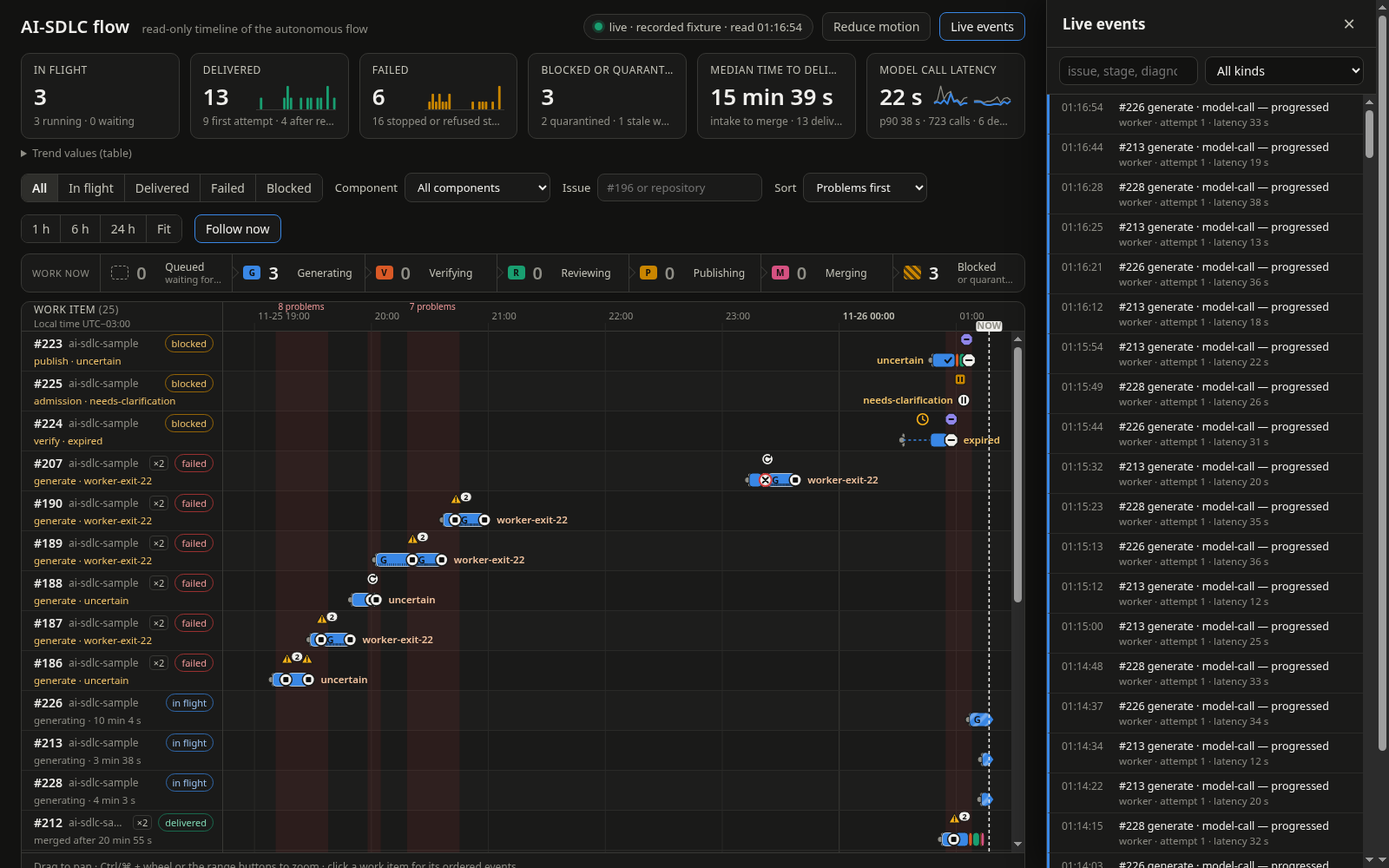
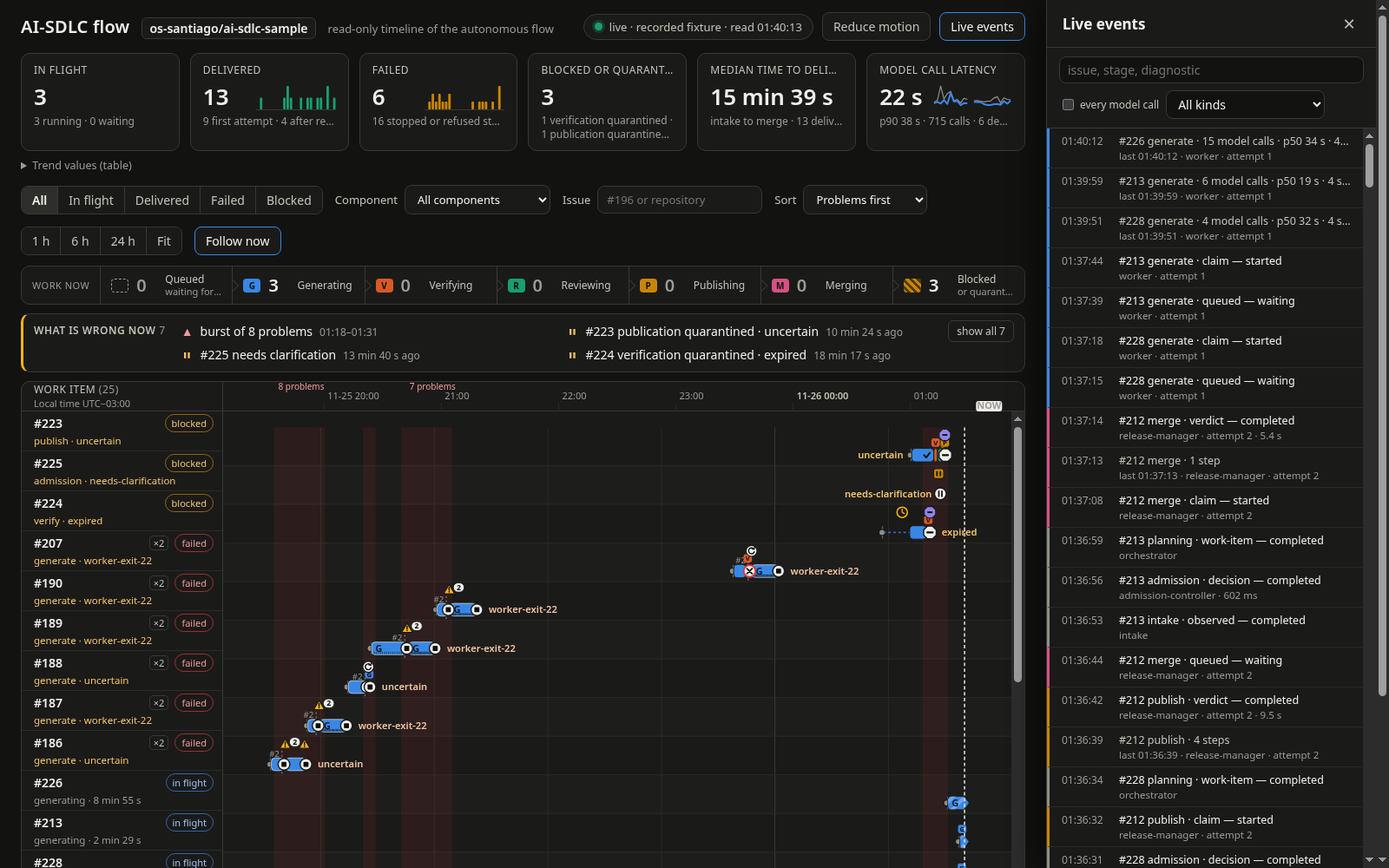
Flow console UI round 6: grouped feed, problems box, short runs
- The live feed folds a stage's model calls and effect steps per work item
  and attempt into one updating row; transitions, waits, retries, stops,
  failures, quarantine and degradation keep their own rows, problems
  highlighted. A toggle shows every model call.
- Runs too short to see keep their true width and get a stage-initial chip
  above them; a dashed #2/#3 rule marks where a later attempt begins.
- A "What is wrong now" box lists blocked or quarantined items with reason
  and age, lanes in a stage longer than its visible-window p90, and
  degradation bursts, newest first and clickable.
- The blocked tile names what blocks (for example "1 publication
  quarantined · 1 needs clarification").
- Readability: the muted text colour now clears WCAG AA on every surface;
  a single repository is named once next to the title instead of being
  truncated on every lane.

diff --git a/runtime/k8s/internal/flowconsole/ui/app.js b/runtime/k8s/internal/flowconsole/ui/app.js
@@ -263,7 +263,10 @@
     $('t-blocked').textContent = count('blocked');
     const stale = all.reduce((n, l) => n + l.markers.filter((m) => m.type === 'stale').length, 0);
     const quarantined = all.reduce((n, l) => n + l.markers.filter((m) => m.type === 'quarantined').length, 0);
-    $('t-blocked-note').textContent = quarantined + ' quarantined · ' + stale + ' stale waits';
+    const reasons = blockedReasons(all);
+    const note = reasons.length ? reasons.join(' · ') : quarantined + ' quarantined · ' + stale + ' stale waits';
+    $('t-blocked-note').textContent = note;
+    $('t-blocked-note').title = note;
     const ttd = delivered.map((l) => l.delivery).filter((v) => v !== null);
     $('t-ttd').textContent = ttd.length ? fmtDuration(median(ttd)) : '–';
     $('t-ttd-note').textContent = ttd.length ? 'intake to merge · ' + ttd.length + ' delivered' : 'no delivery yet';
@@ -272,6 +275,72 @@
     for (const l of all) for (const s of l.segments) { for (const c of s.calls) if (c.latencyMs) lat.push(c.latencyMs); degraded += s.degraded.length; }
     $('t-latency').textContent = lat.length ? fmtDuration(median(lat)) : '–';
     $('t-latency-note').textContent = lat.length ? 'p90 ' + fmtDuration(quantile(lat, 0.9)) + ' · ' + lat.length + ' calls · ' + degraded + ' degraded' : 'no model calls';
+  }
+
+  const STAGE_NOUN = { intake: 'intake', admission: 'admission', planning: 'planning', execution: 'generation', verification: 'verification', review: 'review', publication: 'publication', merge: 'merge' };
+  // What blocks: "1 publication quarantined · 1 needs clarification · 1 lease lapsed".
+  function blockReason(lane) {
+    const s = lane.final;
+    if (!s) return 'blocked';
+    if (s.outcome === 'quarantined') return STAGE_NOUN[s.stage] + ' quarantined';
+    return (s.diagnostic || 'blocked').replace(/-/g, ' ');
+  }
+  function blockedReasons(all) {
+    const counts = new Map();
+    for (const l of all) if (l.status === 'blocked') { const r = blockReason(l); counts.set(r, (counts.get(r) || 0) + 1); }
+    return Array.from(counts).sort((a, b) => b[1] - a[1]).map(([r, n]) => n + ' ' + r);
+  }
+
+  // ---------- what is wrong now ----------
+  // Blocked or quarantined lanes, lanes in a stage longer than that stage's
+  // p90 over the visible window, and degradation bursts; newest first.
+  function problems(all, now) {
+    const out = [];
+    for (const l of all) if (l.status === 'blocked' && l.final) {
+      const at = (l.final.quarantined || l.final.blocked || l.final.terminal || { t: l.final.drawEnd }).t;
+      out.push({ at, key: l.key, kind: 'blocked', text: (l.issue ? '#' + l.issue + ' ' : '') + blockReason(l) + (l.final.diagnostic && l.final.outcome === 'quarantined' ? ' · ' + l.final.diagnostic : ''), note: fmtDuration(now - at) + ' ago' });
+    }
+    // Typical durations: completed stage runs and waits inside the visible window.
+    const runs = {}, waits = {};
+    for (const l of all) for (const s of l.segments) {
+      if (INSTANT[s.stage] || s.end === null || s.end < state.view[0] || s.start === null) continue;
+      (runs[s.stage] = runs[s.stage] || []).push(s.end - s.start);
+      if (s.start > s.queued) (waits[s.stage] = waits[s.stage] || []).push(s.start - s.queued);
+    }
+    for (const l of all) {
+      const s = l.currentSegment;
+      if (!s || l.status === 'blocked') continue;
+      const waiting = s.outcome === 'waiting', sample = (waiting ? waits : runs)[s.stage] || [];
+      if (sample.length < 3) continue;
+      const p90 = quantile(sample, 0.9), age = now - (waiting ? s.queued : s.start);
+      if (age > p90 && age > 60e3) {
+        out.push({ at: now - age + p90, key: l.key, kind: 'slow', text: (l.issue ? '#' + l.issue + ' ' : '') + (waiting ? 'queued for ' + STAGE_NAME[s.stage] : (STAGE_VERB[s.stage] || STAGE_NAME[s.stage])) + ' ' + fmtDuration(age), note: 'p90 ' + fmtDuration(p90) });
+      }
+    }
+    for (const b of bands(all)) out.push({ at: b.b, band: b, kind: 'burst', text: 'burst of ' + b.count + ' problems', note: fmtClock(b.a) + '–' + fmtClock(b.b) });
+    return out.sort((a, b) => b.at - a.at);
+  }
+  function renderProblems(all, now) {
+    const box = $('problems'), list = $('problem-list');
+    const items = problems(all, now);
+    box.hidden = items.length === 0;
+    $('problem-count').textContent = String(items.length);
+    list.textContent = '';
+    const limit = state.problemsExpanded ? items.length : 4;
+    for (const p of items.slice(0, limit)) {
+      const li = html('li', 'problem-' + p.kind, null, list);
+      const b = html('button', null, null, li);
+      b.type = 'button';
+      if (p.key) b.dataset.key = p.key;
+      if (p.band) { b.dataset.a = String(p.band.a); b.dataset.b = String(p.band.b); }
+      html('span', 'problem-icon', { blocked: '⏸', slow: '⏱', burst: '▲' }[p.kind], b).setAttribute('aria-hidden', 'true');
+      html('span', 'problem-text', p.text, b);
+      html('span', 'problem-note', p.note, b);
+      b.title = p.text + ' · ' + p.note;
+    }
+    const more = $('problem-more');
+    more.hidden = items.length <= 4;
+    more.textContent = state.problemsExpanded ? 'show fewer' : 'show all ' + items.length;
   }
 
   // ---------- trends over the visible window ----------
@@ -435,9 +504,10 @@
     $('feed-new').hidden = true;
     const q = $('feed-filter').value.trim().toLowerCase(), kind = $('feed-kind').value;
     const list = $('feed-list');
-    const items = Array.from(state.events.values()).filter((e) => feedMatches(e, q, kind)).sort((a, b) => b.t - a.t).slice(0, 300);
+    const sorted = Array.from(state.events.values()).filter((e) => feedMatches(e, q, kind)).sort((a, b) => b.t - a.t);
     list.textContent = '';
-    for (const e of items) {
+    if (!$('feed-every').checked) return renderFeedGrouped(list, sorted);
+    for (const e of sorted.slice(0, 300)) {
       const li = html('li', PROBLEM_KINDS[e.kind] || e.diagnostic ? 'problem' : '', null, list);
       li.tabIndex = 0;
       li.dataset.key = laneKey(e);
@@ -447,6 +517,43 @@
       time.title = fmtUTC(e.t);
       html('span', 'what', (e.issue ? '#' + e.issue + ' ' : '') + STAGE_NAME[e.stage] + (e.step ? ' · ' + e.step : '') + ' — ' + e.kind + (e.diagnostic ? ' (' + e.diagnostic + ')' : ''), li);
       html('span', 'detail', [e.component, e.attempt ? 'attempt ' + e.attempt : '', e.durationMs ? fmtDuration(e.durationMs) : '', e.latencyMs ? 'latency ' + fmtDuration(e.latencyMs) : ''].filter(Boolean).join(' · '), li);
+    }
+    if (state.follow) list.scrollTop = 0;
+  }
+  // Default feed: model calls and effect steps of one stage of one attempt
+  // fold into one row at their newest time; transitions and problems keep
+  // their own rows, problems with more weight.
+  function renderFeedGrouped(list, sorted) {
+    const rows = [], groups = new Map();
+    for (const e of sorted) {
+      if (e.kind === 'progressed') {
+        const key = laneKey(e) + '|' + (e.attempt || 0) + '|' + e.stage;
+        let g = groups.get(key);
+        if (!g) { g = { group: true, e, calls: [], steps: 0 }; groups.set(key, g); rows.push(g); }
+        if (e.step === 'model-call') g.calls.push(e); else g.steps++;
+      } else rows.push({ e });
+      if (rows.length >= 300) break;
+    }
+    for (const r of rows) {
+      const e = r.e, problem = PROBLEM_KINDS[e.kind] || e.diagnostic === 'stale-wait';
+      const li = html('li', r.group ? 'progress' : problem ? 'problem' : 'transition', null, list);
+      li.tabIndex = 0;
+      li.dataset.key = laneKey(e);
+      li.dataset.id = e.id;
+      li.style.borderLeftColor = problem ? (e.kind === 'failed' ? 'var(--failed)' : 'var(--degraded)') : STAGE_COLOR[e.stage];
+      html('span', 'time', fmtClock(e.t, true), li).title = fmtUTC(e.t);
+      const who = (e.issue ? '#' + e.issue + ' ' : '') + STAGE_NAME[e.stage];
+      if (r.group) {
+        const lat = r.calls.map((c) => c.latencyMs).filter(Boolean);
+        const parts = [who];
+        if (r.calls.length) parts.push(r.calls.length + ' model call' + (r.calls.length > 1 ? 's' : '') + (lat.length ? ' · p50 ' + fmtDuration(median(lat)) : ''));
+        if (r.steps) parts.push(r.steps + ' step' + (r.steps > 1 ? 's' : ''));
+        html('span', 'what', parts.join(' · '), li);
+        html('span', 'detail', ['last ' + fmtClock(e.t, true), e.component, e.attempt ? 'attempt ' + e.attempt : ''].filter(Boolean).join(' · '), li);
+      } else {
+        html('span', 'what', who + (e.step ? ' · ' + e.step : '') + ' — ' + e.kind + (e.diagnostic ? ' (' + e.diagnostic + ')' : ''), li);
+        html('span', 'detail', [e.component, e.attempt ? 'attempt ' + e.attempt : '', e.durationMs ? fmtDuration(e.durationMs) : ''].filter(Boolean).join(' · '), li);
+      }
     }
     if (state.follow) list.scrollTop = 0;
   }
@@ -582,6 +689,7 @@
     return out;
   }
 
+  let chipEnd = -Infinity;
   function drawSegment(parent, lane, s, y0, w, dim, overlay) {
     const LANE_H = laneHeight(), cy = y0 + LANE_H - 13;
     const xq = x(s.queued), xs = s.start !== null ? x(s.start) : x(s.drawEnd), xe = x(s.drawEnd);
@@ -594,7 +702,11 @@
       svg('circle', { cx: xs, cy, r: 3.6, fill: color, stroke: 'var(--surface-1)', 'stroke-width': 1.2 }, g);
       return { g, x0: xs - 4, x1: xs + 4 };
     }
-    let width = Math.max(xe - xs, 4), x0 = xs;
+    // Very short runs keep their true width (at least 2 px) and get a chip
+    // with the stage initial above them, so the axis is not stretched.
+    const short = s.outcome !== 'waiting' && xe - xs < 7;
+    const chip = short && STAGES.indexOf(s.stage) >= 3;
+    let width = short ? Math.max(xe - xs, 2) : Math.max(xe - xs, 4), x0 = xs;
     if (s.outcome === 'waiting') {
       // Waiting: an outline only, from the queue time.
       x0 = xq; width = Math.max(xe - xq, 6);
@@ -612,6 +724,14 @@
         const px = x(c.t);
         if (px > x0 + 2 && px < x0 + width - 2) svg('line', { x1: px, x2: px, y1: cy + BAR_H / 2 - 4, y2: cy + BAR_H / 2 - 1, stroke: 'rgba(14,14,13,.6)', 'stroke-width': 1 }, g);
       }
+    }
+    if (chip) {
+      // Neighbouring chips line up to the right; a hairline ties each to its run.
+      const tx = x0 + width / 2, cx = Math.max(tx, chipEnd + 11);
+      svg('rect', { x: cx - 5, y: cy - BAR_H / 2 - 12, width: 10, height: 10, rx: 2.5, fill: color }, g);
+      text(g, { class: 'chip-label', x: cx, y: cy - BAR_H / 2 - 4, 'text-anchor': 'middle' }, STAGE_INITIAL[s.stage]);
+      if (cx !== tx) svg('line', { x1: cx - 5, x2: tx, y1: cy - BAR_H / 2 - 2, y2: cy - BAR_H / 2, stroke: color, 'stroke-width': 1 }, g);
+      chipEnd = cx;
     }
     const badged = s.outcome === 'failed' || s.outcome === 'stopped-safely' || s.outcome === 'blocked' || s.outcome === 'quarantined';
     const room = width - (badged ? 10 : s.outcome === 'completed' ? 14 : 4) - 6;
@@ -655,6 +775,9 @@
     renderTiles(all);
     renderFunnel(all);
     const matching = visibleLanes();
+    // One repository for every lane: name it once in the header instead.
+    const repos = new Set(all.map((l) => l.repository));
+    state.singleRepo = repos.size === 1 ? Array.from(repos)[0] : '';
     const extent = dataExtent(matching.length ? matching : all, now);
     // The initial window is chosen once the first events exist.
     if (!state.view || (!state.viewChosen && all.length)) {
@@ -698,6 +821,9 @@
       if (xb - xa > 60) text(axis, { class: 'band-label', x: xa + 3, y: 9 }, b.count + ' problems');
     }
     trends(all);
+    renderProblems(all, now);
+    $('header-repo').textContent = state.singleRepo;
+    $('header-repo').hidden = !state.singleRepo;
 
     // Labels column: issue, repository, status, and a summary line.
     labels.textContent = '';
@@ -717,7 +843,8 @@
       row.dataset.index = String(index);
       const top = html('div', 'label-top', null, row);
       html('span', 'issue', lane.issue ? '#' + lane.issue : lane.workItem.slice(0, 8), top);
-      const repo = html('span', 'repo', (lane.repository || '').split('/').pop(), top);
+      // The repository is shown per lane only when lanes span several.
+      const repo = html('span', 'repo', state.singleRepo ? '' : (lane.repository || '').split('/').pop(), top);
       repo.title = lane.repository;
       if (lane.attempts > 1) html('span', 'attempts', '×' + lane.attempts, top).title = lane.attempts + ' attempts';
       const chipText = { inflight: 'in flight', delivered: 'delivered', failed: 'failed', blocked: 'blocked' }[lane.status];
@@ -734,6 +861,16 @@
       const i = first + k, y0 = i * LANE_H;
       const dim = state.filter.component;
       let lastEnd = -Infinity, finalBox = null;
+      chipEnd = -Infinity;
+      // Attempt dividers: a dashed rule where attempt 2, 3, ... begins.
+      for (let a = 2; a <= lane.attempts; a++) {
+        const starts = lane.segments.filter((s) => s.attempt === a).map((s) => s.queued);
+        if (!starts.length) continue;
+        const px = x(Math.min.apply(null, starts)) - 4;
+        if (px < 0 || px > w) continue;
+        svg('line', { class: 'attempt-divider', x1: px, x2: px, y1: y0 + 17, y2: y0 + LANE_H - 2 }, bars);
+        text(bars, { class: 'attempt-label', x: px - 3, y: y0 + 24, 'text-anchor': 'end' }, '#' + a);
+      }
       for (const s of lane.segments) {
         const box = drawSegment(bars, lane, s, y0, w, dim && s.events[0].component !== dim, overlay);
         if (!box) continue;
@@ -968,6 +1105,14 @@
   $('feed-close').addEventListener('click', () => setFeed(false));
   $('feed-filter').addEventListener('input', () => renderFeed(true));
   $('feed-kind').addEventListener('change', () => renderFeed(true));
+  $('feed-every').addEventListener('change', () => renderFeed(true));
+  $('problem-list').addEventListener('click', (ev) => {
+    const b = ev.target.closest('button');
+    if (!b) return;
+    if (b.dataset.key && state.lanes.has(b.dataset.key)) openPanel(b.dataset.key);
+    else if (b.dataset.a) setView(Number(b.dataset.a) - 15 * 60e3, Number(b.dataset.b) + 15 * 60e3, false);
+  });
+  $('problem-more').addEventListener('click', () => { state.problemsExpanded = !state.problemsExpanded; schedule(); });
   $('feed-new').addEventListener('click', () => renderFeed(true));
   $('feed-list').addEventListener('click', (ev) => { const li = ev.target.closest('li'); if (li && state.lanes.has(li.dataset.key)) openPanel(li.dataset.key); });
   $('feed-list').addEventListener('keydown', (ev) => {

diff --git a/runtime/k8s/internal/flowconsole/ui/app.css b/runtime/k8s/internal/flowconsole/ui/app.css
@@ -11,7 +11,7 @@
   --grid: #2a2a28;
   --text-primary: #f0efec;
   --text-secondary: #c3c2b7;
-  --text-muted: #8f8e86;
+  --text-muted: #9c9b93;
   --accent: #3987e5;
   --running: #3987e5;
   --completed: #199e70;
@@ -159,11 +159,35 @@ body.panel-open { padding-right: 420px; }
 .stage-swatch { flex: none; width: 20px; height: 16px; border-radius: 4px; color: #0e0e0d; font-size: 10px; font-weight: 700; display: inline-flex; align-items: center; justify-content: center; }
 .stage-swatch.outline { background: none !important; border: 1.5px dashed var(--text-muted); color: var(--text-secondary); }
 .stage-swatch.hatch { background: repeating-linear-gradient(45deg, #c98500 0 3px, rgba(201,133,0,.3) 3px 6px) !important; }
+/* What is wrong now: a compact, clickable list of current problems. */
+.problems { margin: 0 24px 10px; display: flex; align-items: flex-start; gap: 14px; background: var(--surface-1); border: 1px solid var(--line); border-left: 3px solid var(--degraded); border-radius: 10px; padding: 7px 12px; }
+.problems h2 { margin: 3px 0 0; font-size: 12px; text-transform: uppercase; letter-spacing: .5px; color: var(--text-secondary); font-weight: 600; white-space: nowrap; }
+.problems ul { list-style: none; margin: 0; padding: 0; flex: 1; display: grid; grid-template-columns: repeat(2, minmax(0, 1fr)); gap: 2px 14px; min-width: 0; }
+.problems li button { width: 100%; display: flex; align-items: baseline; gap: 8px; background: none; border: 0; padding: 3px 4px; cursor: pointer; text-align: left; border-radius: 6px; min-width: 0; }
+.problems li button:hover { background: var(--surface-2); }
+.problems li button:focus-visible { outline: 2px solid var(--accent); outline-offset: -2px; }
+.problem-icon { flex: none; width: 14px; text-align: center; }
+.problem-blocked .problem-icon { color: #f2c46b; }
+.problem-slow .problem-icon { color: #9cc4f3; }
+.problem-burst .problem-icon { color: #f09a9a; }
+.problem-text { color: var(--text-primary); white-space: nowrap; overflow: hidden; text-overflow: ellipsis; min-width: 0; }
+.problem-note { color: var(--text-muted); font-size: 12px; white-space: nowrap; flex: none; }
+.problem-more { background: none; border: 1px solid var(--line); border-radius: 6px; padding: 3px 9px; cursor: pointer; color: var(--text-secondary); font-size: 12px; white-space: nowrap; }
+.header-repo { color: var(--text-primary); font-size: 14px; font-weight: 600; border: 1px solid var(--line); border-radius: 6px; padding: 2px 8px; background: var(--surface-1); }
+.attempt-divider { stroke: #9c9b93; stroke-width: 1; stroke-dasharray: 2 3; }
+.attempt-label { fill: var(--text-muted); font-size: 10px; }
+.chip-label { fill: #0e0e0d; font-size: 8px; font-weight: 700; pointer-events: none; }
+.feed-every { display: inline-flex; align-items: center; gap: 4px; color: var(--text-secondary); font-size: 12px; white-space: nowrap; }
+.feed-list li.progress .what { color: var(--text-secondary); }
+.feed-list li.transition .what { color: var(--text-primary); }
+.feed-list li.problem { background: rgba(250,178,25,.06); }
+.feed-list li.problem .what { color: #f6cfa8; font-weight: 600; }
 .trend-table { margin: -4px 24px 10px; color: var(--text-secondary); font-size: 12.5px; }
 .trend-table summary { cursor: pointer; color: var(--text-muted); width: max-content; }
 .trend-table table { border-collapse: collapse; margin-top: 6px; font-variant-numeric: tabular-nums; }
 .trend-table th, .trend-table td { padding: 2px 14px 2px 0; text-align: left; font-weight: 400; border-bottom: 1px solid var(--grid); }
 .trend-table thead th { color: var(--text-muted); }
+#t-blocked-note { white-space: normal; display: -webkit-box; -webkit-line-clamp: 2; -webkit-box-orient: vertical; line-height: 1.3; }
 .tile-row { display: flex; align-items: flex-end; justify-content: space-between; gap: 8px; }
 .spark { width: 92px; height: 30px; flex: none; margin-bottom: 2px; overflow: visible; }
 .spark .p90 { stroke: #8f8e86; }
@@ -173,9 +197,9 @@ body.panel-open { padding-right: 420px; }
 .feed { position: fixed; top: 0; right: 0; bottom: 0; width: 380px; background: var(--surface-1); border-left: 1px solid var(--line); box-shadow: -12px 0 30px rgba(0,0,0,.4); display: flex; flex-direction: column; z-index: 9; }
 body.feed-open { padding-right: 380px; }
 body.feed-open.panel-open { padding-right: 420px; }
-.feed-filters { display: flex; gap: 8px; padding: 10px 14px; border-bottom: 1px solid var(--line); }
+.feed-filters { display: flex; flex-wrap: wrap; gap: 8px; padding: 10px 14px; border-bottom: 1px solid var(--line); }
 .feed-filters input, .feed-filters select { background: var(--surface-0); border: 1px solid var(--line); border-radius: 8px; padding: 5px 9px; color: var(--text-primary); min-width: 0; }
-.feed-filters input { flex: 1; }
+.feed-filters input[type=search] { flex: 1 1 100%; }
 .feed-new { margin: 8px 14px 0; background: var(--surface-3); border: 1px solid var(--accent); border-radius: 8px; padding: 5px; cursor: pointer; }
 .feed-list { list-style: none; margin: 0; padding: 0 0 20px; overflow-y: auto; flex: 1; }
 .feed-list li { display: grid; grid-template-columns: 58px 1fr; gap: 1px 8px; padding: 6px 14px; border-bottom: 1px solid var(--grid); font-size: 12.5px; cursor: pointer; border-left: 3px solid transparent; }
@@ -187,7 +211,7 @@ body.feed-open.panel-open { padding-right: 420px; }
 @media (max-width: 1400px) {
   :root { --label-w: 214px; font-size: 13px; }
   .top, .tiles, .filters, .legend { padding-left: 16px; padding-right: 16px; }
-  .timeline, .funnel, .trend-table { margin-left: 16px; margin-right: 16px; }
+  .timeline, .funnel, .trend-table, .problems { margin-left: 16px; margin-right: 16px; }
   .funnel button { padding: 6px 9px; gap: 7px; }
   .funnel .count { font-size: 17px; }
   .funnel-title { display: none; }

diff --git a/runtime/k8s/internal/flowconsole/ui/index.html b/runtime/k8s/internal/flowconsole/ui/index.html
@@ -10,6 +10,7 @@
 <header class="top">
   <div class="brand">
     <h1>AI-SDLC flow</h1>
+    <span class="header-repo" id="header-repo" hidden title="Every work item shown belongs to this repository"></span>
     <span class="subtitle">read-only timeline of the autonomous flow</span>
   </div>
   <div class="top-right">
@@ -75,6 +76,12 @@
 
 <nav class="funnel" id="funnel" aria-label="Where the work is now: current stage counts, click to filter"></nav>
 
+<section class="problems" id="problems" hidden aria-labelledby="problems-title">
+  <h2 id="problems-title">What is wrong now <span class="muted" id="problem-count"></span></h2>
+  <ul id="problem-list"></ul>
+  <button type="button" class="problem-more" id="problem-more" hidden></button>
+</section>
+
 <main class="timeline" id="timeline">
   <div class="axis-row">
     <div class="lane-head"><span>Work item <span class="muted" id="lane-count"></span></span><span class="tz" id="timezone"></span></div>
@@ -110,6 +117,7 @@
   </div>
   <div class="feed-filters">
     <input id="feed-filter" type="search" placeholder="issue, stage, diagnostic" autocomplete="off" spellcheck="false" aria-label="Filter events">
+    <label class="feed-every"><input type="checkbox" id="feed-every"> every model call</label>
     <select id="feed-kind" aria-label="Event kinds">
       <option value="">All kinds</option>
       <option value="problems">Problems only</option>

diff --git a/docs/operations/flow-console.md b/docs/operations/flow-console.md
@@ -18,8 +18,9 @@ no workflow authority. It is off by default.
   attempt continues on the same lane. Only lanes with activity in the visible
   time window are listed, most recent activity first, or *problems first*
   (blocked, then failed, then in flight, then delivered).
-- **A label column with a summary line**: issue, repository (truncated, full
-  name on hover), attempt count and status, and under it where the work is
+- **A label column with a summary line**: issue, attempt count and status
+  (the repository is named once next to the title when every lane shares it,
+  and per lane, truncated with the full name on hover, when they do not), and under it where the work is
   now (`verifying · 3 min`, `queued for review · 40 s`) or why it ended. The
   final stop of a failed or blocked lane always shows its stage and
   diagnostic there (`generate · worker-exit-22`) and next to its last bar.
@@ -31,7 +32,21 @@ no workflow authority. It is off by default.
   with ✓ for completed, striped with an open end for running, a dashed outline
   for waiting (and a dashed lead-in for the queue time before a claim), a hatch
   for blocked or quarantined, and an end badge for failed (✕), stopped safely
-  (■), blocked (⏸) and quarantined (⛔).
+  (■), blocked (⏸) and quarantined (⛔). A run too short to see at the
+  current zoom (often publish and merge) keeps its true width (at least 2 px)
+  and gets a small chip with its initial above it; neighbouring chips line up
+  to the right with a hairline to their run, so the time axis is never
+  stretched. A dashed rule labelled `#2`, `#3`, ... marks where a later attempt
+  begins inside a lane.
+- **What is wrong now**: a box above the timeline, shown only when there is
+  something to show, lists current problems newest first: blocked or
+  quarantined work items with their reason, diagnostic and age; lanes in a
+  stage (or its queue) longer than that stage's p90 over the visible window
+  (`#226 generating 10 min · p90 6 min`, only once three runs of that stage
+  are visible); and degradation bursts. Click a work item to open it, or a
+  burst to zoom to it. Four items show by default; *show all* expands.
+- **The blocked tile names what blocks**, for example `1 publication
+  quarantined · 1 needs clarification · 1 lease lapsed`.
 - **Work now**: a strip above the timeline counts the work items currently
   queued, generating, verifying, reviewing, publishing, merging and blocked
   or quarantined. Click a cell to show only those lanes; click it again to
@@ -47,9 +62,13 @@ no workflow authority. It is off by default.
   count is shown above the axis. No band does not mean no problems: the
   markers and the failed and blocked lanes still show every one.
 - **Live events**: the *Live events* button opens a side panel with the
-  newest 300 events across all work items (time, issue, stage, step, kind,
-  diagnostic, component), filterable by text and by kind (problems only, or
-  stage starts and ends). It refreshes on its own while *Follow now* is on;
+  newest activity across all work items, filterable by text and by kind
+  (problems only, or stage starts and ends). By default the model calls and
+  effect steps of one stage of one attempt fold into one updating row
+  (`#213 generate · 14 model calls · p50 20 s · last 01:16:54`); stage
+  transitions, waits, retries, stops, failures, quarantine and degradation
+  keep their own rows, problems highlighted. *every model call* shows each
+  event on its own row (newest 300). It refreshes on its own while *Follow now* is on;
   otherwise it offers the count of new events and keeps your position. Click
   or press Enter on an event to open its work item.
 - **Markers on their own row** above the bars for retries, stale waits,
@@ -75,6 +94,9 @@ no workflow authority. It is off by default.
   quarantine and stale-wait counts), median time from intake to merge, and the
   model call latency median and 90th percentile.
 - **Text legend** for every colour, texture and marker.
+- **Contrast**: all text meets WCAG AA (4.5:1) against every surface it sits
+  on; the muted grey (`#9c9b93`) measures 6.2:1 on the panels and 4.9:1 on the
+  hovered or pressed controls.
 - **Keyboard**: the lane list is one tab stop; the arrow keys, Page Up/Down,
   Home and End move between lanes (scrolling as needed) and Enter or Space
   opens the details. Live updates keep the focused lane or event focused. In the detail panel and the live-events list the arrow
